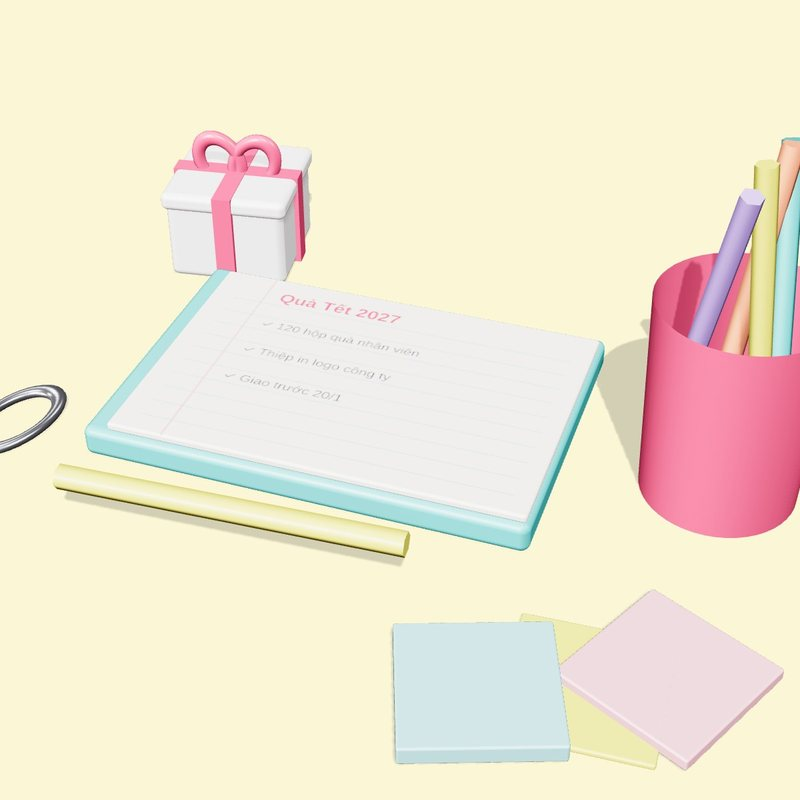
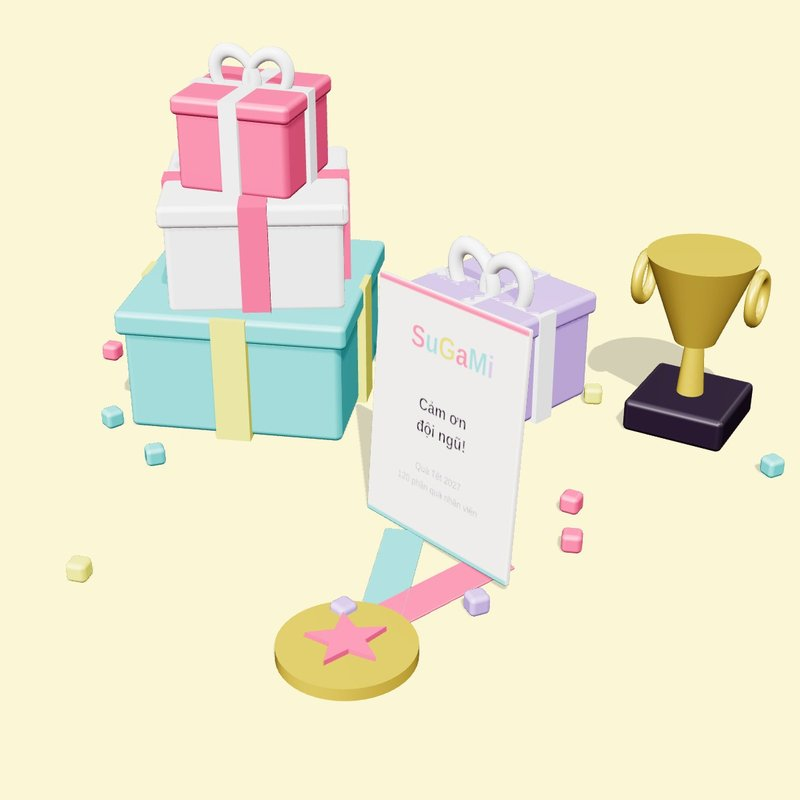
[SITE] Brand as SuGaMi, new company-gift render, serve homepage via nginx
- Visible brand text uses SuGaMi; toy-block render spells SuGaMi.
- Hero 'Quà công ty' image re-rendered as branded gift stack with a
  thank-you card, medal and trophy (company and school gifts).
- New 'homepage' compose service (nginx, 127.0.0.1:8080) serving
  sites/sugami.vn read-only; concepts/ and tools/ return 404.
- docs/ops/trang-chu.md: Cloudflare Tunnel steps for sugami.vn and www.
docker compose config validates; container not run here (no Docker daemon).

Claude-Session: https://claude.ai/code/session_01DkVifqYXS8RcKoUXCQ7pA5

diff --git a/sites/sugami.vn/index.html b/sites/sugami.vn/index.html
@@ -3,8 +3,8 @@
 <head>
 <meta charset="utf-8">
 <meta name="viewport" content="width=device-width, initial-scale=1">
-<title>Sugami | Đồ chơi và quà tặng</title>
-<meta name="description" content="Công ty TNHH Thương mại và Dịch vụ Sugami: bán sỉ, bán lẻ đồ chơi trẻ em, quà tặng cho công ty và phần thưởng cho trường học.">
+<title>SuGaMi | Đồ chơi và quà tặng</title>
+<meta name="description" content="Công ty TNHH Thương mại và Dịch vụ SuGaMi: bán sỉ, bán lẻ đồ chơi trẻ em, quà tặng cho công ty và phần thưởng cho trường học.">
 <link rel="icon" type="image/png" href="assets/favicon.png">
 <link rel="preconnect" href="https://fonts.googleapis.com">
 <link rel="preconnect" href="https://fonts.gstatic.com" crossorigin>
@@ -247,9 +247,9 @@
 </head>
 <body>
 <header>
-  <a class="brand glass" href="#"><img src="assets/logo.png" alt="Sugami">Sugami</a>
+  <a class="brand glass" href="#"><img src="assets/logo.png" alt="SuGaMi">SuGaMi</a>
   <nav class="stations glass" id="stations">
-    <a href="#" data-i="0">Sugami</a><a href="#" data-i="1">Chọn</a><a href="#" data-i="2">Gói</a><a href="#" data-i="3">Giao</a><a href="#" data-i="4">Lớn lên</a><a href="#tat-ca" id="toAll">Tất cả</a>
+    <a href="#" data-i="0">SuGaMi</a><a href="#" data-i="1">Chọn</a><a href="#" data-i="2">Gói</a><a href="#" data-i="3">Giao</a><a href="#" data-i="4">Lớn lên</a><a href="#tat-ca" id="toAll">Tất cả</a>
   </nav>
 </header>
 
@@ -266,16 +266,16 @@
 
       <article class="panel">
         <div>
-          <div class="num">Công ty TNHH Thương mại và Dịch vụ Sugami</div>
+          <div class="num">Công ty TNHH Thương mại và Dịch vụ SuGaMi</div>
           <h2>Hành trình của <span class="grad">một món quà.</span></h2>
-          <p>Từ lúc chọn một món đồ chơi, gói một phần quà, đến khi nó đến tay bé, tay nhân viên hay tay học sinh của bạn. Đó là việc Sugami làm mỗi ngày.</p>
+          <p>Từ lúc chọn một món đồ chơi, gói một phần quà, đến khi nó đến tay bé, tay nhân viên hay tay học sinh của bạn. Đó là việc SuGaMi làm mỗi ngày.</p>
           <div class="hint">Cứ cuộn xuống như bình thường, trang sẽ tự trượt ngang <svg viewBox="0 0 24 24" fill="none" stroke="currentColor" stroke-width="2.2" stroke-linecap="round" stroke-linejoin="round"><path d="M12 5v14M6 13l6 6 6-6"/></svg></div>
         </div>
         <div class="collage" id="collage" aria-hidden="true">
           <figure class="shot glass s2"><img src="assets/img/do-choi.jpg" alt=""><figcaption>Đồ chơi</figcaption></figure>
           <figure class="shot glass s3"><img src="assets/img/van-phong.jpg" alt=""><figcaption>Quà công ty</figcaption></figure>
           <figure class="shot glass s1"><img src="assets/img/qua-tang.jpg" alt=""><figcaption>Quà tặng</figcaption></figure>
-          <div class="badge glass"><img src="assets/logo.png" alt="">Sugami<small>Thương mại &amp; Dịch vụ</small></div>
+          <div class="badge glass"><img src="assets/logo.png" alt="">SuGaMi<small>Thương mại &amp; Dịch vụ</small></div>
         </div>
       </article>
 
@@ -283,7 +283,7 @@
         <div>
           <div class="num">Chặng 1 · Chọn</div>
           <h2>Chọn <span class="grad">đúng món.</span></h2>
-          <p>Sugami bán sỉ và bán lẻ đồ chơi trẻ em, chọn lọc theo độ tuổi, chất liệu và giá trị giáo dục. Ba mẹ khỏi phải lục tìm giữa hàng nghìn lựa chọn.</p>
+          <p>SuGaMi bán sỉ và bán lẻ đồ chơi trẻ em, chọn lọc theo độ tuổi, chất liệu và giá trị giáo dục. Ba mẹ khỏi phải lục tìm giữa hàng nghìn lựa chọn.</p>
         </div>
         <div class="prods">
           <a class="pc glass" href="https://shopee.vn/-C%C3%B3-S%C3%A1ch-Ti%E1%BA%BFng-Vi%E1%BB%87t-%C4%90%E1%BB%93-ch%C6%A1i-gi%C3%A1o-d%E1%BB%A5c-x%E1%BA%BFp-h%C3%ACnh-tetris-Katamino-phi%C3%AAn-b%E1%BA%A3n-gia-%C4%91%C3%ACnh-Family-i.6875667.22114388468" target="_blank" rel="noopener"><div class="ph"><img src="assets/img/sp/katamino.jpg" alt="Katamino xếp hình gỗ" loading="lazy"></div><b>Katamino xếp hình gỗ</b><small>Bé 3+ · Trí tuệ</small></a>
@@ -299,7 +299,7 @@
         <div>
           <div class="num">Chặng 2 · Gói</div>
           <h2>Gói <span class="grad">trọn tấm lòng.</span></h2>
-          <p>Quà cho con, cho gia đình, quà cho cả công ty và phần thưởng cho trường học. Sugami lên phương án theo ngân sách, gói quà, in thiệp theo thương hiệu và giao tận nơi.</p>
+          <p>Quà cho con, cho gia đình, quà cho cả công ty và phần thưởng cho trường học. SuGaMi lên phương án theo ngân sách, gói quà, in thiệp theo thương hiệu và giao tận nơi.</p>
         </div>
         <div class="wrapbox glass">
           <div class="num" style="color:var(--teal-deep)">Sứ mệnh</div>
@@ -315,7 +315,7 @@
         <div>
           <div class="num">Chặng 3 · Giao</div>
           <h2>Đến tay bạn, <span class="grad">ở kênh bạn quen.</span></h2>
-          <p>Một kho hàng, nhiều kênh bán. Đơn ở đâu cũng được Sugami xử lý trong ngày và giao toàn quốc. Zalo: <b>0981 151 720</b>.</p>
+          <p>Một kho hàng, nhiều kênh bán. Đơn ở đâu cũng được SuGaMi xử lý trong ngày và giao toàn quốc. Zalo: <b>0981 151 720</b>.</p>
         </div>
         <div class="chans">
           <a class="ch glass" href="https://s.shopee.vn/4fy5kstgpM" target="_blank" rel="noopener"><span class="shopee"><svg viewBox="0 0 24 24" fill="none" stroke="currentColor" stroke-width="2" stroke-linecap="round" stroke-linejoin="round"><path d="M5 8h14l-1 12H6L5 8z"/><path d="M9 8a3 3 0 016 0"/></svg></span><b>Shopee</b><small>Gian hàng chính thức, voucher thường xuyên</small></a>
@@ -329,11 +329,11 @@
         <div>
           <div class="num">Chặng 4 · Lớn lên</div>
           <h2>Và <span class="grad">lớn lên</span> cùng bé.</h2>
-          <p>Món quà không dừng ở hộp giấy. Ở learn.sugami.vn, các bé tiếp tục vừa chơi vừa học kiến thức và kỹ năng sống cùng Sugami.</p>
-          <div class="down">Cuộn tiếp để xem tất cả về Sugami <svg viewBox="0 0 24 24" fill="none" stroke="currentColor" stroke-width="2.2" stroke-linecap="round" stroke-linejoin="round"><path d="M12 5v14M6 13l6 6 6-6"/></svg></div>
+          <p>Món quà không dừng ở hộp giấy. Ở learn.sugami.vn, các bé tiếp tục vừa chơi vừa học kiến thức và kỹ năng sống cùng SuGaMi.</p>
+          <div class="down">Cuộn tiếp để xem tất cả về SuGaMi <svg viewBox="0 0 24 24" fill="none" stroke="currentColor" stroke-width="2.2" stroke-linecap="round" stroke-linejoin="round"><path d="M12 5v14M6 13l6 6 6-6"/></svg></div>
         </div>
         <div class="learn"><img class="learn-img" src="assets/img/learn.jpg" alt="Mèo Mochi học cùng máy tính Casio trên learn.sugami.vn">
-          <small>Sugami Learn</small>
+          <small>SuGaMi Learn</small>
           <b>learn.sugami.vn</b>
           <p>Mèo Mochi dẫn bé qua từng bài: tập đọc, gõ phím, máy tính Casio, hóa học, lập trình. Học xong có luyện tập, thi đấu và bảng xếp hạng.</p>
           <a href="https://learn.sugami.vn" target="_blank" rel="noopener">Cho bé khám phá</a>
@@ -349,50 +349,50 @@
   <main class="bento" id="bento">
     <section class="intro-tile glass">
       <div class="kick">Điểm đến của hành trình</div>
-      <div class="hero-txt"><h2>Tất cả về Sugami, <span class="grad">trong một lưới.</span></h2><p>Bấm một ô để ô bung ra thành trang đầy đủ, bấm dấu đóng để quay lại.</p></div>
-      <div class="meta">Công ty TNHH Thương mại và Dịch vụ Sugami<br>Đồ chơi trẻ em · Quà tặng · Quà công ty &amp; trường học</div>
+      <div class="hero-txt"><h2>Tất cả về SuGaMi, <span class="grad">trong một lưới.</span></h2><p>Bấm một ô để ô bung ra thành trang đầy đủ, bấm dấu đóng để quay lại.</p></div>
+      <div class="meta">Công ty TNHH Thương mại và Dịch vụ SuGaMi<br>Đồ chơi trẻ em · Quà tặng · Quà công ty &amp; trường học</div>
       <img class="logo2" src="assets/logo.png" alt="">
     </section>
 <article class="tile glass t-about" data-k="about" style="view-transition-name:t-about;--c:var(--rose);background:rgba(253,227,233,.75);">
   <button class="open" aria-label="Mở Chúng tôi là ai"></button>
   <div class="th"><span class="ic"><svg viewBox="0 0 24 24" fill="none" stroke="currentColor" stroke-width="2" stroke-linecap="round" stroke-linejoin="round"><path d="M12 21s-7-4.4-7-10a4 4 0 017-2.6A4 4 0 0119 11c0 5.6-7 10-7 10z"/></svg></span><span class="nm">Chúng tôi là ai</span><span class="plus"><svg viewBox="0 0 24 24" fill="none" stroke="currentColor" stroke-width="2" stroke-linecap="round" stroke-linejoin="round"><path d="M5 12h14M13 6l6 6-6 6"/></svg></span></div>
   <div class="peek"><h3>Một đầu mối cho đồ chơi và quà tặng.</h3></div>
-  <div class="full" hidden><button class="close" aria-label="Đóng"><svg viewBox="0 0 24 24" fill="none" stroke="currentColor" stroke-width="2" stroke-linecap="round" stroke-linejoin="round"><path d="M6 6l12 12M18 6L6 18"/></svg></button><div class="fx"><div><h2>Một đầu mối cho đồ chơi và quà tặng.</h2><p>Sugami là Công ty TNHH Thương mại và Dịch vụ chuyên bán sỉ, bán lẻ đồ chơi trẻ em và lo quà tặng cho gia đình, công ty, trường học. Kho hàng và đơn hàng chạy trên hệ thống riêng, nên mỗi đơn đều nhanh, đúng và minh bạch.</p></div>
-  <div class="svc"><div><b>Đồ chơi trẻ em</b><small>Bán sỉ cho cửa hàng, bán lẻ cho gia đình</small></div><div><b>Quà tặng</b><small>Cho con, gia đình và nhân viên</small></div><div><b>Công ty &amp; trường học</b><small>Quà cho nhân viên, phần thưởng cuối năm, sự kiện</small></div></div></div><div class="next"><span>Xem tiếp</span><button class="jump" data-go="mission">Sứ mệnh</button><button class="jump" data-go="products">Sản phẩm nổi bật</button><button class="jump" data-go="channels">Mua sắm</button><button class="jump" data-go="b2b">Quà công ty &amp; trường</button><button class="jump" data-go="learn">Sugami Learn</button></div></div>
+  <div class="full" hidden><button class="close" aria-label="Đóng"><svg viewBox="0 0 24 24" fill="none" stroke="currentColor" stroke-width="2" stroke-linecap="round" stroke-linejoin="round"><path d="M6 6l12 12M18 6L6 18"/></svg></button><div class="fx"><div><h2>Một đầu mối cho đồ chơi và quà tặng.</h2><p>SuGaMi là Công ty TNHH Thương mại và Dịch vụ chuyên bán sỉ, bán lẻ đồ chơi trẻ em và lo quà tặng cho gia đình, công ty, trường học. Kho hàng và đơn hàng chạy trên hệ thống riêng, nên mỗi đơn đều nhanh, đúng và minh bạch.</p></div>
+  <div class="svc"><div><b>Đồ chơi trẻ em</b><small>Bán sỉ cho cửa hàng, bán lẻ cho gia đình</small></div><div><b>Quà tặng</b><small>Cho con, gia đình và nhân viên</small></div><div><b>Công ty &amp; trường học</b><small>Quà cho nhân viên, phần thưởng cuối năm, sự kiện</small></div></div></div><div class="next"><span>Xem tiếp</span><button class="jump" data-go="mission">Sứ mệnh</button><button class="jump" data-go="products">Sản phẩm nổi bật</button><button class="jump" data-go="channels">Mua sắm</button><button class="jump" data-go="b2b">Quà công ty &amp; trường</button><button class="jump" data-go="learn">SuGaMi Learn</button></div></div>
 </article>
 <article class="tile glass t-mission" data-k="mission" style="view-transition-name:t-mission;--c:var(--teal);background:rgba(220,243,244,.78);">
   <button class="open" aria-label="Mở Sứ mệnh"></button>
   <div class="th"><span class="ic"><svg viewBox="0 0 24 24" fill="none" stroke="currentColor" stroke-width="2" stroke-linecap="round" stroke-linejoin="round"><circle cx="12" cy="12" r="8"/><circle cx="12" cy="12" r="4"/></svg></span><span class="nm">Sứ mệnh</span><span class="plus"><svg viewBox="0 0 24 24" fill="none" stroke="currentColor" stroke-width="2" stroke-linecap="round" stroke-linejoin="round"><path d="M5 12h14M13 6l6 6-6 6"/></svg></span></div>
   <div class="peek"><p class="q">“Giúp ba mẹ khỏi vất vả tìm quà cho con, giúp công ty, trường học nhẹ nhàng lo quà cho nhân viên, học sinh.”</p></div>
-  <div class="full" hidden><button class="close" aria-label="Đóng"><svg viewBox="0 0 24 24" fill="none" stroke="currentColor" stroke-width="2" stroke-linecap="round" stroke-linejoin="round"><path d="M6 6l12 12M18 6L6 18"/></svg></button><blockquote>Giúp ba mẹ khỏi vất vả tìm đồ chơi và quà cho con. Giúp doanh nghiệp nhẹ nhàng chuẩn bị quà cho nhân viên, giúp nhà trường lo phần thưởng cuối năm.</blockquote><p>Phần chọn lựa, gói quà và giao hàng, để Sugami lo. Từ một món đồ chơi cho bé đến vài trăm phần quà cho cả công ty hay cả trường.</p><div class="next"><span>Xem tiếp</span><button class="jump" data-go="about">Chúng tôi là ai</button><button class="jump" data-go="products">Sản phẩm nổi bật</button><button class="jump" data-go="channels">Mua sắm</button><button class="jump" data-go="b2b">Quà công ty &amp; trường</button><button class="jump" data-go="learn">Sugami Learn</button></div></div>
+  <div class="full" hidden><button class="close" aria-label="Đóng"><svg viewBox="0 0 24 24" fill="none" stroke="currentColor" stroke-width="2" stroke-linecap="round" stroke-linejoin="round"><path d="M6 6l12 12M18 6L6 18"/></svg></button><blockquote>Giúp ba mẹ khỏi vất vả tìm đồ chơi và quà cho con. Giúp doanh nghiệp nhẹ nhàng chuẩn bị quà cho nhân viên, giúp nhà trường lo phần thưởng cuối năm.</blockquote><p>Phần chọn lựa, gói quà và giao hàng, để SuGaMi lo. Từ một món đồ chơi cho bé đến vài trăm phần quà cho cả công ty hay cả trường.</p><div class="next"><span>Xem tiếp</span><button class="jump" data-go="about">Chúng tôi là ai</button><button class="jump" data-go="products">Sản phẩm nổi bật</button><button class="jump" data-go="channels">Mua sắm</button><button class="jump" data-go="b2b">Quà công ty &amp; trường</button><button class="jump" data-go="learn">SuGaMi Learn</button></div></div>
 </article>
 <article class="tile glass t-products" data-k="products" style="view-transition-name:t-products;--c:#d8c62c;background:rgba(251,247,208,.8);">
   <button class="open" aria-label="Mở Sản phẩm nổi bật"></button>
   <div class="th"><span class="ic"><svg viewBox="0 0 24 24" fill="none" stroke="currentColor" stroke-width="2" stroke-linecap="round" stroke-linejoin="round"><path d="M4 11h16v9H4zM3 7h18v4H3zM12 7v13"/><path d="M12 7c-1.5-3-5-3-5-1s3 1 5 1zM12 7c1.5-3 5-3 5-1s-3 1-5 1z"/></svg></span><span class="nm">Sản phẩm nổi bật</span><span class="plus"><svg viewBox="0 0 24 24" fill="none" stroke="currentColor" stroke-width="2" stroke-linecap="round" stroke-linejoin="round"><path d="M5 12h14M13 6l6 6-6 6"/></svg></span></div>
   <div class="peek"><div class="mini"><a class="pc" href="https://shopee.vn/-C%C3%B3-S%C3%A1ch-Ti%E1%BA%BFng-Vi%E1%BB%87t-%C4%90%E1%BB%93-ch%C6%A1i-gi%C3%A1o-d%E1%BB%A5c-x%E1%BA%BFp-h%C3%ACnh-tetris-Katamino-phi%C3%AAn-b%E1%BA%A3n-gia-%C4%91%C3%ACnh-Family-i.6875667.22114388468" target="_blank" rel="noopener"><div class="ph"><img src="assets/img/sp/katamino.jpg" alt="Katamino xếp hình gỗ" loading="lazy"></div><b>Katamino xếp hình gỗ</b><small>Bé 3+ · Trí tuệ</small></a><a class="pc" href="https://shopee.vn/-M%E1%BA%AAU-M%E1%BB%9AI-%C4%90%E1%BB%93-ch%C6%A1i-xe-%C4%91%E1%BA%A9y-b%C3%BAp-b%C3%AA-SuGaMi-m%C3%A0u-h%E1%BB%93ng-k%C3%A8m-nhi%E1%BB%81u-ph%E1%BB%A5-ki%E1%BB%87n-size-l%E1%BB%9Bn-cho-b%C3%A9-i.6875667.22540928422" target="_blank" rel="noopener"><div class="ph"><img src="assets/img/sp/xe-day.jpg" alt="Xe đẩy búp bê kèm phụ kiện" loading="lazy"></div><b>Xe đẩy búp bê kèm phụ kiện</b><small>Bé 3+ · Nhập vai</small></a><a class="pc" href="https://shopee.vn/%C4%90%E1%BB%93-ch%C6%A1i-b%E1%BA%AFn-t%C3%A0u-The-Sea-Battle-kinh-%C4%91i%E1%BB%83n-SuGaMi-boardgame-i.6875667.11352909979" target="_blank" rel="noopener"><div class="ph"><img src="assets/img/sp/ban-tau.jpg" alt="Bắn tàu The Sea Battle" loading="lazy"></div><b>Bắn tàu The Sea Battle</b><small>Bé 6+ · Boardgame</small></a></div></div>
-  <div class="full" hidden><button class="close" aria-label="Đóng"><svg viewBox="0 0 24 24" fill="none" stroke="currentColor" stroke-width="2" stroke-linecap="round" stroke-linejoin="round"><path d="M6 6l12 12M18 6L6 18"/></svg></button><h2>Được chọn sẵn theo từng độ tuổi.</h2><div class="prods"><a class="pc glass" href="https://shopee.vn/-C%C3%B3-S%C3%A1ch-Ti%E1%BA%BFng-Vi%E1%BB%87t-%C4%90%E1%BB%93-ch%C6%A1i-gi%C3%A1o-d%E1%BB%A5c-x%E1%BA%BFp-h%C3%ACnh-tetris-Katamino-phi%C3%AAn-b%E1%BA%A3n-gia-%C4%91%C3%ACnh-Family-i.6875667.22114388468" target="_blank" rel="noopener"><div class="ph"><img src="assets/img/sp/katamino.jpg" alt="Katamino xếp hình gỗ" loading="lazy"></div><b>Katamino xếp hình gỗ</b><small>Bé 3+ · Trí tuệ</small></a><a class="pc glass" href="https://shopee.vn/-M%E1%BA%AAU-M%E1%BB%9AI-%C4%90%E1%BB%93-ch%C6%A1i-xe-%C4%91%E1%BA%A9y-b%C3%BAp-b%C3%AA-SuGaMi-m%C3%A0u-h%E1%BB%93ng-k%C3%A8m-nhi%E1%BB%81u-ph%E1%BB%A5-ki%E1%BB%87n-size-l%E1%BB%9Bn-cho-b%C3%A9-i.6875667.22540928422" target="_blank" rel="noopener"><div class="ph"><img src="assets/img/sp/xe-day.jpg" alt="Xe đẩy búp bê kèm phụ kiện" loading="lazy"></div><b>Xe đẩy búp bê kèm phụ kiện</b><small>Bé 3+ · Nhập vai</small></a><a class="pc glass" href="https://shopee.vn/%C4%90%E1%BB%93-ch%C6%A1i-b%E1%BA%AFn-t%C3%A0u-The-Sea-Battle-kinh-%C4%91i%E1%BB%83n-SuGaMi-boardgame-i.6875667.11352909979" target="_blank" rel="noopener"><div class="ph"><img src="assets/img/sp/ban-tau.jpg" alt="Bắn tàu The Sea Battle" loading="lazy"></div><b>Bắn tàu The Sea Battle</b><small>Bé 6+ · Boardgame</small></a><a class="pc glass" href="https://shopee.vn/C%E1%BB%9D-th%E1%BA%A3-Caro-Connect-Four-SuGaMi-b%E1%BA%B1ng-nh%E1%BB%B1a-t%E1%BB%91t-phi%C3%AAn-b%E1%BA%A3n-m%E1%BB%9Bi-42-qu%C3%A2n-c%E1%BB%9D-i.6875667.21569038686" target="_blank" rel="noopener"><div class="ph"><img src="assets/img/sp/connect-four.jpg" alt="Cờ thả Connect Four" loading="lazy"></div><b>Cờ thả Connect Four</b><small>Bé 3+ · Boardgame</small></a><a class="pc glass" href="https://shopee.vn/Set-b%C3%BAt-m%C3%A0u-marker-2-%C4%91%E1%BA%A7u-SuGaMi-c%C3%B3-h%E1%BB%99p-nh%C6%B0a-v%E1%BB%9Bi-nhi%E1%BB%81u-l%E1%BB%B1a-ch%E1%BB%8Dn-i.6875667.19392834589" target="_blank" rel="noopener"><div class="ph"><img src="assets/img/sp/but-marker.jpg" alt="Bút marker 2 đầu" loading="lazy"></div><b>Bút marker 2 đầu</b><small>Bé 4+ · Vẽ & tô màu</small></a><a class="pc glass" href="https://shopee.vn/B%C3%ACnh-N%C6%B0%E1%BB%9Bc-Eco-Bottle-Gen-II-500ml-Tupperware-B%C3%ACnh-n%C6%B0%E1%BB%9Bc-cho-tr%E1%BA%BB-mang-%C4%91i-h%E1%BB%8Dc-i.6875667.25921513505" target="_blank" rel="noopener"><div class="ph"><img src="assets/img/sp/binh-nuoc.jpg" alt="Bình nước Tupperware 500ml" loading="lazy"></div><b>Bình nước Tupperware 500ml</b><small>Đi học · Quà tặng</small></a></div><div class="next"><span>Xem tiếp</span><button class="jump" data-go="about">Chúng tôi là ai</button><button class="jump" data-go="mission">Sứ mệnh</button><button class="jump" data-go="channels">Mua sắm</button><button class="jump" data-go="b2b">Quà công ty &amp; trường</button><button class="jump" data-go="learn">Sugami Learn</button></div></div>
+  <div class="full" hidden><button class="close" aria-label="Đóng"><svg viewBox="0 0 24 24" fill="none" stroke="currentColor" stroke-width="2" stroke-linecap="round" stroke-linejoin="round"><path d="M6 6l12 12M18 6L6 18"/></svg></button><h2>Được chọn sẵn theo từng độ tuổi.</h2><div class="prods"><a class="pc glass" href="https://shopee.vn/-C%C3%B3-S%C3%A1ch-Ti%E1%BA%BFng-Vi%E1%BB%87t-%C4%90%E1%BB%93-ch%C6%A1i-gi%C3%A1o-d%E1%BB%A5c-x%E1%BA%BFp-h%C3%ACnh-tetris-Katamino-phi%C3%AAn-b%E1%BA%A3n-gia-%C4%91%C3%ACnh-Family-i.6875667.22114388468" target="_blank" rel="noopener"><div class="ph"><img src="assets/img/sp/katamino.jpg" alt="Katamino xếp hình gỗ" loading="lazy"></div><b>Katamino xếp hình gỗ</b><small>Bé 3+ · Trí tuệ</small></a><a class="pc glass" href="https://shopee.vn/-M%E1%BA%AAU-M%E1%BB%9AI-%C4%90%E1%BB%93-ch%C6%A1i-xe-%C4%91%E1%BA%A9y-b%C3%BAp-b%C3%AA-SuGaMi-m%C3%A0u-h%E1%BB%93ng-k%C3%A8m-nhi%E1%BB%81u-ph%E1%BB%A5-ki%E1%BB%87n-size-l%E1%BB%9Bn-cho-b%C3%A9-i.6875667.22540928422" target="_blank" rel="noopener"><div class="ph"><img src="assets/img/sp/xe-day.jpg" alt="Xe đẩy búp bê kèm phụ kiện" loading="lazy"></div><b>Xe đẩy búp bê kèm phụ kiện</b><small>Bé 3+ · Nhập vai</small></a><a class="pc glass" href="https://shopee.vn/%C4%90%E1%BB%93-ch%C6%A1i-b%E1%BA%AFn-t%C3%A0u-The-Sea-Battle-kinh-%C4%91i%E1%BB%83n-SuGaMi-boardgame-i.6875667.11352909979" target="_blank" rel="noopener"><div class="ph"><img src="assets/img/sp/ban-tau.jpg" alt="Bắn tàu The Sea Battle" loading="lazy"></div><b>Bắn tàu The Sea Battle</b><small>Bé 6+ · Boardgame</small></a><a class="pc glass" href="https://shopee.vn/C%E1%BB%9D-th%E1%BA%A3-Caro-Connect-Four-SuGaMi-b%E1%BA%B1ng-nh%E1%BB%B1a-t%E1%BB%91t-phi%C3%AAn-b%E1%BA%A3n-m%E1%BB%9Bi-42-qu%C3%A2n-c%E1%BB%9D-i.6875667.21569038686" target="_blank" rel="noopener"><div class="ph"><img src="assets/img/sp/connect-four.jpg" alt="Cờ thả Connect Four" loading="lazy"></div><b>Cờ thả Connect Four</b><small>Bé 3+ · Boardgame</small></a><a class="pc glass" href="https://shopee.vn/Set-b%C3%BAt-m%C3%A0u-marker-2-%C4%91%E1%BA%A7u-SuGaMi-c%C3%B3-h%E1%BB%99p-nh%C6%B0a-v%E1%BB%9Bi-nhi%E1%BB%81u-l%E1%BB%B1a-ch%E1%BB%8Dn-i.6875667.19392834589" target="_blank" rel="noopener"><div class="ph"><img src="assets/img/sp/but-marker.jpg" alt="Bút marker 2 đầu" loading="lazy"></div><b>Bút marker 2 đầu</b><small>Bé 4+ · Vẽ & tô màu</small></a><a class="pc glass" href="https://shopee.vn/B%C3%ACnh-N%C6%B0%E1%BB%9Bc-Eco-Bottle-Gen-II-500ml-Tupperware-B%C3%ACnh-n%C6%B0%E1%BB%9Bc-cho-tr%E1%BA%BB-mang-%C4%91i-h%E1%BB%8Dc-i.6875667.25921513505" target="_blank" rel="noopener"><div class="ph"><img src="assets/img/sp/binh-nuoc.jpg" alt="Bình nước Tupperware 500ml" loading="lazy"></div><b>Bình nước Tupperware 500ml</b><small>Đi học · Quà tặng</small></a></div><div class="next"><span>Xem tiếp</span><button class="jump" data-go="about">Chúng tôi là ai</button><button class="jump" data-go="mission">Sứ mệnh</button><button class="jump" data-go="channels">Mua sắm</button><button class="jump" data-go="b2b">Quà công ty &amp; trường</button><button class="jump" data-go="learn">SuGaMi Learn</button></div></div>
 </article>
 <article class="tile glass t-channels" data-k="channels" style="view-transition-name:t-channels;--c:var(--lav);background:rgba(236,229,251,.8);">
   <button class="open" aria-label="Mở Mua sắm"></button>
   <div class="th"><span class="ic"><svg viewBox="0 0 24 24" fill="none" stroke="currentColor" stroke-width="2" stroke-linecap="round" stroke-linejoin="round"><path d="M5 8h14l-1 12H6L5 8z"/><path d="M9 8a3 3 0 016 0"/></svg></span><span class="nm">Mua sắm</span><span class="plus"><svg viewBox="0 0 24 24" fill="none" stroke="currentColor" stroke-width="2" stroke-linecap="round" stroke-linejoin="round"><path d="M5 12h14M13 6l6 6-6 6"/></svg></span></div>
   <div class="peek"><div class="dots"><span class="shopee"><svg viewBox="0 0 24 24" fill="none" stroke="currentColor" stroke-width="2" stroke-linecap="round" stroke-linejoin="round"><path d="M5 8h14l-1 12H6L5 8z"/><path d="M9 8a3 3 0 016 0"/></svg></span><span class="tiktok"><svg viewBox="0 0 24 24" fill="none" stroke="currentColor" stroke-width="2" stroke-linecap="round" stroke-linejoin="round"><path d="M14 4v10.5a3.5 3.5 0 11-3.5-3.5"/><path d="M14 4c.5 2.5 2.3 4 5 4.2"/></svg></span><span class="facebook"><svg viewBox="0 0 24 24" fill="currentColor"><path d="M13.5 21v-7.5h2.6l.4-3h-3V8.6c0-.9.3-1.5 1.5-1.5h1.6V4.4c-.3 0-1.2-.1-2.3-.1-2.3 0-3.8 1.4-3.8 3.9v2.3H8v3h2.5V21h3z"/></svg></span><span class="zalo"><svg viewBox="0 0 24 24" fill="none" stroke="currentColor" stroke-width="2" stroke-linecap="round" stroke-linejoin="round"><path d="M12 4c4.97 0 9 3.36 9 7.5S16.97 19 12 19c-.9 0-1.8-.1-2.6-.3L5 20.5l1.2-3.4C4.2 15.8 3 13.8 3 11.5 3 7.36 7.03 4 12 4z"/></svg></span></div><h3>Shopee, TikTok Shop, Facebook, Zalo.</h3></div>
-  <div class="full" hidden><button class="close" aria-label="Đóng"><svg viewBox="0 0 24 24" fill="none" stroke="currentColor" stroke-width="2" stroke-linecap="round" stroke-linejoin="round"><path d="M6 6l12 12M18 6L6 18"/></svg></button><h2>Nơi nào bạn quen, Sugami ở đó.</h2><div class="chg"><a class="glass" href="https://s.shopee.vn/4fy5kstgpM" target="_blank" rel="noopener"><span class="shopee"><svg viewBox="0 0 24 24" fill="none" stroke="currentColor" stroke-width="2" stroke-linecap="round" stroke-linejoin="round"><path d="M5 8h14l-1 12H6L5 8z"/><path d="M9 8a3 3 0 016 0"/></svg></span><span style="all:unset">Shopee<small>Gian hàng chính thức</small></span></a><a class="glass" href="https://www.tiktok.com/@sugami.vn" target="_blank" rel="noopener"><span class="tiktok"><svg viewBox="0 0 24 24" fill="none" stroke="currentColor" stroke-width="2" stroke-linecap="round" stroke-linejoin="round"><path d="M14 4v10.5a3.5 3.5 0 11-3.5-3.5"/><path d="M14 4c.5 2.5 2.3 4 5 4.2"/></svg></span><span style="all:unset">TikTok Shop<small>Video, livestream</small></span></a><a class="glass" href="https://www.facebook.com/share/19jK4DMbDJ" target="_blank" rel="noopener"><span class="facebook"><svg viewBox="0 0 24 24" fill="currentColor"><path d="M13.5 21v-7.5h2.6l.4-3h-3V8.6c0-.9.3-1.5 1.5-1.5h1.6V4.4c-.3 0-1.2-.1-2.3-.1-2.3 0-3.8 1.4-3.8 3.9v2.3H8v3h2.5V21h3z"/></svg></span><span style="all:unset">Facebook<small>Hàng mới, tư vấn</small></span></a><a class="glass" href="https://zalo.me/0981151720" target="_blank" rel="noopener"><span class="zalo"><svg viewBox="0 0 24 24" fill="none" stroke="currentColor" stroke-width="2" stroke-linecap="round" stroke-linejoin="round"><path d="M12 4c4.97 0 9 3.36 9 7.5S16.97 19 12 19c-.9 0-1.8-.1-2.6-.3L5 20.5l1.2-3.4C4.2 15.8 3 13.8 3 11.5 3 7.36 7.03 4 12 4z"/></svg></span><span style="all:unset">Zalo<small>Zalo 0981 151 720</small></span></a></div><div class="next"><span>Xem tiếp</span><button class="jump" data-go="about">Chúng tôi là ai</button><button class="jump" data-go="mission">Sứ mệnh</button><button class="jump" data-go="products">Sản phẩm nổi bật</button><button class="jump" data-go="b2b">Quà công ty &amp; trường</button><button class="jump" data-go="learn">Sugami Learn</button></div></div>
+  <div class="full" hidden><button class="close" aria-label="Đóng"><svg viewBox="0 0 24 24" fill="none" stroke="currentColor" stroke-width="2" stroke-linecap="round" stroke-linejoin="round"><path d="M6 6l12 12M18 6L6 18"/></svg></button><h2>Nơi nào bạn quen, SuGaMi ở đó.</h2><div class="chg"><a class="glass" href="https://s.shopee.vn/4fy5kstgpM" target="_blank" rel="noopener"><span class="shopee"><svg viewBox="0 0 24 24" fill="none" stroke="currentColor" stroke-width="2" stroke-linecap="round" stroke-linejoin="round"><path d="M5 8h14l-1 12H6L5 8z"/><path d="M9 8a3 3 0 016 0"/></svg></span><span style="all:unset">Shopee<small>Gian hàng chính thức</small></span></a><a class="glass" href="https://www.tiktok.com/@sugami.vn" target="_blank" rel="noopener"><span class="tiktok"><svg viewBox="0 0 24 24" fill="none" stroke="currentColor" stroke-width="2" stroke-linecap="round" stroke-linejoin="round"><path d="M14 4v10.5a3.5 3.5 0 11-3.5-3.5"/><path d="M14 4c.5 2.5 2.3 4 5 4.2"/></svg></span><span style="all:unset">TikTok Shop<small>Video, livestream</small></span></a><a class="glass" href="https://www.facebook.com/share/19jK4DMbDJ" target="_blank" rel="noopener"><span class="facebook"><svg viewBox="0 0 24 24" fill="currentColor"><path d="M13.5 21v-7.5h2.6l.4-3h-3V8.6c0-.9.3-1.5 1.5-1.5h1.6V4.4c-.3 0-1.2-.1-2.3-.1-2.3 0-3.8 1.4-3.8 3.9v2.3H8v3h2.5V21h3z"/></svg></span><span style="all:unset">Facebook<small>Hàng mới, tư vấn</small></span></a><a class="glass" href="https://zalo.me/0981151720" target="_blank" rel="noopener"><span class="zalo"><svg viewBox="0 0 24 24" fill="none" stroke="currentColor" stroke-width="2" stroke-linecap="round" stroke-linejoin="round"><path d="M12 4c4.97 0 9 3.36 9 7.5S16.97 19 12 19c-.9 0-1.8-.1-2.6-.3L5 20.5l1.2-3.4C4.2 15.8 3 13.8 3 11.5 3 7.36 7.03 4 12 4z"/></svg></span><span style="all:unset">Zalo<small>Zalo 0981 151 720</small></span></a></div><div class="next"><span>Xem tiếp</span><button class="jump" data-go="about">Chúng tôi là ai</button><button class="jump" data-go="mission">Sứ mệnh</button><button class="jump" data-go="products">Sản phẩm nổi bật</button><button class="jump" data-go="b2b">Quà công ty &amp; trường</button><button class="jump" data-go="learn">SuGaMi Learn</button></div></div>
 </article>
 <article class="tile glass t-b2b" data-k="b2b" style="view-transition-name:t-b2b;--c:var(--coral);background:rgba(253,232,220,.8);">
   <button class="open" aria-label="Mở Quà công ty và trường học"></button>
   <div class="th"><span class="ic"><svg viewBox="0 0 24 24" fill="none" stroke="currentColor" stroke-width="2" stroke-linecap="round" stroke-linejoin="round"><path d="M4 20l4-1L19 8a2.1 2.1 0 00-3-3L5 16l-1 4z"/></svg></span><span class="nm">Công ty &amp; trường học</span><span class="plus"><svg viewBox="0 0 24 24" fill="none" stroke="currentColor" stroke-width="2" stroke-linecap="round" stroke-linejoin="round"><path d="M5 12h14M13 6l6 6-6 6"/></svg></span></div>
   <div class="peek"><h3>Quà công ty, phần thưởng cho trường học.</h3></div>
-  <div class="full" hidden><button class="close" aria-label="Đóng"><svg viewBox="0 0 24 24" fill="none" stroke="currentColor" stroke-width="2" stroke-linecap="round" stroke-linejoin="round"><path d="M6 6l12 12M18 6L6 18"/></svg></button><h2>Công ty, trường học chỉ cần gửi số lượng và ngân sách.</h2><p>Sugami lên phương án, gói quà, in thiệp theo thương hiệu và giao tận nơi. Quà cho nhân viên dịp Tết, Trung thu, sinh nhật công ty. Phần thưởng cuối năm học, quà sự kiện, lễ hội và ngày 1/6 cho trường học.</p><p style="margin-top:20px"><a class="btn-rose" href="https://zalo.me/0981151720" target="_blank" rel="noopener">Nhận báo giá qua Zalo</a></p><div class="next"><span>Xem tiếp</span><button class="jump" data-go="about">Chúng tôi là ai</button><button class="jump" data-go="mission">Sứ mệnh</button><button class="jump" data-go="products">Sản phẩm nổi bật</button><button class="jump" data-go="channels">Mua sắm</button><button class="jump" data-go="learn">Sugami Learn</button></div></div>
+  <div class="full" hidden><button class="close" aria-label="Đóng"><svg viewBox="0 0 24 24" fill="none" stroke="currentColor" stroke-width="2" stroke-linecap="round" stroke-linejoin="round"><path d="M6 6l12 12M18 6L6 18"/></svg></button><h2>Công ty, trường học chỉ cần gửi số lượng và ngân sách.</h2><p>SuGaMi lên phương án, gói quà, in thiệp theo thương hiệu và giao tận nơi. Quà cho nhân viên dịp Tết, Trung thu, sinh nhật công ty. Phần thưởng cuối năm học, quà sự kiện, lễ hội và ngày 1/6 cho trường học.</p><p style="margin-top:20px"><a class="btn-rose" href="https://zalo.me/0981151720" target="_blank" rel="noopener">Nhận báo giá qua Zalo</a></p><div class="next"><span>Xem tiếp</span><button class="jump" data-go="about">Chúng tôi là ai</button><button class="jump" data-go="mission">Sứ mệnh</button><button class="jump" data-go="products">Sản phẩm nổi bật</button><button class="jump" data-go="channels">Mua sắm</button><button class="jump" data-go="learn">SuGaMi Learn</button></div></div>
 </article>
 <article class="tile night t-learn" data-k="learn" style="view-transition-name:t-learn;--c:var(--sun);">
-  <button class="open" aria-label="Mở Sugami Learn"></button>
-  <div class="th"><span class="ic"><svg viewBox="0 0 24 24" fill="none" stroke="currentColor" stroke-width="2" stroke-linecap="round" stroke-linejoin="round"><path d="M12 3l2.5 5 5.5.8-4 3.9.9 5.5L12 15.6 7.1 18.2 8 12.7 4 8.8 9.5 8z"/></svg></span><span class="nm">Sugami Learn</span><span class="plus"><svg viewBox="0 0 24 24" fill="none" stroke="currentColor" stroke-width="2" stroke-linecap="round" stroke-linejoin="round"><path d="M5 12h14M13 6l6 6-6 6"/></svg></span></div>
+  <button class="open" aria-label="Mở SuGaMi Learn"></button>
+  <div class="th"><span class="ic"><svg viewBox="0 0 24 24" fill="none" stroke="currentColor" stroke-width="2" stroke-linecap="round" stroke-linejoin="round"><path d="M12 3l2.5 5 5.5.8-4 3.9.9 5.5L12 15.6 7.1 18.2 8 12.7 4 8.8 9.5 8z"/></svg></span><span class="nm">SuGaMi Learn</span><span class="plus"><svg viewBox="0 0 24 24" fill="none" stroke="currentColor" stroke-width="2" stroke-linecap="round" stroke-linejoin="round"><path d="M5 12h14M13 6l6 6-6 6"/></svg></span></div>
   <div class="peek"><h3 style="color:#fff">learn.sugami.vn</h3><p>Vừa chơi vừa học cho bé.</p></div>
-  <div class="full" hidden><button class="close" aria-label="Đóng"><svg viewBox="0 0 24 24" fill="none" stroke="currentColor" stroke-width="2" stroke-linecap="round" stroke-linejoin="round"><path d="M6 6l12 12M18 6L6 18"/></svg></button><h2 style="color:#fff">Vừa chơi vừa học, mỗi ngày.</h2><p>learn.sugami.vn là sân chơi trực tuyến nơi các bé vừa chơi vừa bổ sung kiến thức và học kỹ năng sống cùng Sugami. Mèo Mochi dẫn bé qua tập đọc, gõ phím, máy tính Casio, hóa học và lập trình, bám chương trình GDPT 2018. Bé đứng đầu bảng xếp hạng tuần còn nhận quà từ Sugami.</p><p style="margin-top:20px"><a class="btn-sun" href="https://learn.sugami.vn" target="_blank" rel="noopener">Vào learn.sugami.vn</a></p><div class="next"><span>Xem tiếp</span><button class="jump" data-go="about">Chúng tôi là ai</button><button class="jump" data-go="mission">Sứ mệnh</button><button class="jump" data-go="products">Sản phẩm nổi bật</button><button class="jump" data-go="channels">Mua sắm</button><button class="jump" data-go="b2b">Quà công ty &amp; trường</button></div></div>
+  <div class="full" hidden><button class="close" aria-label="Đóng"><svg viewBox="0 0 24 24" fill="none" stroke="currentColor" stroke-width="2" stroke-linecap="round" stroke-linejoin="round"><path d="M6 6l12 12M18 6L6 18"/></svg></button><h2 style="color:#fff">Vừa chơi vừa học, mỗi ngày.</h2><p>learn.sugami.vn là sân chơi trực tuyến nơi các bé vừa chơi vừa bổ sung kiến thức và học kỹ năng sống cùng SuGaMi. Mèo Mochi dẫn bé qua tập đọc, gõ phím, máy tính Casio, hóa học và lập trình, bám chương trình GDPT 2018. Bé đứng đầu bảng xếp hạng tuần còn nhận quà từ SuGaMi.</p><p style="margin-top:20px"><a class="btn-sun" href="https://learn.sugami.vn" target="_blank" rel="noopener">Vào learn.sugami.vn</a></p><div class="next"><span>Xem tiếp</span><button class="jump" data-go="about">Chúng tôi là ai</button><button class="jump" data-go="mission">Sứ mệnh</button><button class="jump" data-go="products">Sản phẩm nổi bật</button><button class="jump" data-go="channels">Mua sắm</button><button class="jump" data-go="b2b">Quà công ty &amp; trường</button></div></div>
 </article>
   </main>
   </div>
-  <footer class="site-foot"><span>© 2026 Công ty TNHH Thương mại và Dịch vụ Sugami</span><span>sugami.vn</span></footer>
+  <footer class="site-foot"><span>© 2026 Công ty TNHH Thương mại và Dịch vụ SuGaMi</span><span>sugami.vn</span></footer>
 </section>
 
 <script>
@@ -412,7 +412,7 @@
     base.setAttribute('d', d); done.setAttribute('d', d);
     len = done.getTotalLength(); done.style.strokeDasharray = len;
     stops.forEach(function (s) { s.remove(); }); stops = [];
-    ['Sugami', 'Chọn', 'Gói', 'Giao', 'Lớn lên'].forEach(function (name, i) {
+    ['SuGaMi', 'Chọn', 'Gói', 'Giao', 'Lớn lên'].forEach(function (name, i) {
       var s = document.createElement('div'); s.className = 'stop';
       s.innerHTML = '<i></i><span>' + name + '</span>';
       s.style.left = (i * innerWidth + innerWidth / 2) + 'px';

diff --git a/sites/sugami.vn/tools/render-scenes.html b/sites/sugami.vn/tools/render-scenes.html
@@ -64,9 +64,9 @@ if (S === 'A') { // gifts
   confetti(16, 3.4, [C.rose, C.teal, C.sun, C.lav]);
   cam.position.set(5.6, 5.4, 8.2); cam.lookAt(0, .75, .9);
 }
-if (S === 'B') { // toy blocks spelling SUGAMI + car
+if (S === 'B') { // toy blocks spelling SuGaMi + car
   const cols = [C.rose, C.teal, C.sun, C.lav, C.coral, C.teal];
-  'SUGAMI'.split('').forEach((ch, i) => block(ch, cols[i], (i - 2.5) * 1.12, .5, i % 2 ? .25 : -.15, (i - 2.5) * -.06));
+  'SuGaMi'.split('').forEach((ch, i) => block(ch, cols[i], (i - 2.5) * 1.12, .5, i % 2 ? .25 : -.15, (i - 2.5) * -.06));
   block('★', C.blush, -.55, 1.5, .05, .12); block('♥', C.tealSoft, .6, 1.5, 0, -.1);
   const car = new THREE.Group(); car.position.set(2.2, 0, 2.3); car.rotation.y = -.7; scene.add(car);
   const body = new THREE.Mesh(new RoundedBoxGeometry(1.5, .5, .85, 5, .18), mat(C.rose)); body.position.y = .45; body.castShadow = true; car.add(body);
@@ -76,26 +76,39 @@ if (S === 'B') { // toy blocks spelling SUGAMI + car
   const ring = mesh(new THREE.TorusGeometry(.35, .13, 24, 48), mat(C.lav), -1.4, .13, 2.6); ring.rotation.x = Math.PI / 2;
   cam.position.set(3.2, 5.2, 12.5); cam.lookAt(.1, .6, .9);
 }
-if (S === 'C') { // office desk
-  const nb = rbox(3.0, .22, 2.1, C.teal, -.5, .11, 0, .06); nb.rotation.y = .25;
-  const pcv = document.createElement('canvas'); pcv.width = 1024; pcv.height = 720; const pgc = pcv.getContext('2d');
-  pgc.fillStyle = '#fffaf2'; pgc.fillRect(0, 0, 1024, 720); pgc.strokeStyle = '#bfe3e5'; pgc.lineWidth = 4;
-  for (let y = 120; y < 700; y += 60) { pgc.beginPath(); pgc.moveTo(60, y); pgc.lineTo(980, y); pgc.stroke(); }
-  pgc.strokeStyle = '#f4a3b5'; pgc.beginPath(); pgc.moveTo(140, 0); pgc.lineTo(140, 720); pgc.stroke();
-  pgc.fillStyle = '#d9466c'; pgc.font = '700 54px Arial'; pgc.fillText('Quà Tết 2027', 180, 100);
-  pgc.fillStyle = '#4a4150'; pgc.font = '500 38px Arial'; ['✓ 120 hộp quà nhân viên', '✓ Thiệp in logo công ty', '✓ Giao trước 20/1'].forEach((t, i) => pgc.fillText(t, 180, 222 + i * 120));
-  const ptex = new THREE.CanvasTexture(pcv); ptex.colorSpace = THREE.SRGBColorSpace;
-  const pg = rbox(2.8, .06, 1.95, C.white, -.42, .25, .02, .02, { map: ptex, clearcoat: .1, roughness: .7 }); pg.rotation.y = .25;
-  const cup = mesh(new THREE.CylinderGeometry(.55, .5, 1.4, 48, 1, true), mat(C.rose, { side: THREE.DoubleSide }), 1.9, .7, -.6);
-  mesh(new THREE.CylinderGeometry(.5, .5, .05, 48), mat(C.rose), 1.9, .03, -.6);
-  [[C.sun, .1, .0], [C.lav, -.18, .15], [C.teal, .15, -.2], [C.coral, -.05, -.15]].forEach(([c, dx, dz], i) => {
-    const pen = mesh(new THREE.CylinderGeometry(.07, .07, 2.0, 6), mat(c), 1.9 + dx, 1.3, -.6 + dz); pen.rotation.z = dx * 1.2; pen.rotation.x = dz * 1.2;
-  });
-  [[C.sun, 2.0, 1.4, .3], [C.blush, 2.35, 1.1, -.2], [C.tealSoft, 1.55, 1.8, .6]].forEach(([c, x, z, ry], i) => { const n = rbox(.9, .04 + i * .04, .9, c, x, .02 + i * .04, z, .015); n.rotation.y = ry; });
-  const pencil = mesh(new THREE.CylinderGeometry(.08, .08, 2.2, 6), mat(C.sun), -.3, .35, 1.6); pencil.rotation.z = Math.PI / 2; pencil.rotation.y = .3;
-  const clip = mesh(new THREE.TorusGeometry(.2, .035, 12, 40), mat(0xd0d0d8, { metalness: .9, roughness: .2 }), -2.3, .04, 1.4); clip.rotation.x = Math.PI / 2; clip.scale.set(1, 1.8, 1);
-  gift(.9, .7, .9, C.white, C.rose, -2.4, -1.2, .4);
-  cam.position.set(4.2, 6.2, 6.6); cam.lookAt(0, .4, .2);
+if (S === 'C') { // company gifts and school rewards
+  // stack of branded hampers
+  gift(1.9, 1.1, 1.9, C.teal, C.sun, -1.6, -.6, .35, false);
+  gift(1.5, .95, 1.5, C.white, C.rose, -1.6 + .05, -.6, .55, false).position.y = 1.1;
+  gift(1.0, .8, 1.0, C.rose, C.white, -1.55, -.6, .2).position.y = 2.05;
+  gift(1.3, 1.0, 1.3, C.lav, C.white, .3, -1.5, -.3);
+  // standing thank-you card with brand
+  const cv = document.createElement('canvas'); cv.width = 800; cv.height = 1000; const g = cv.getContext('2d');
+  g.fillStyle = '#fffaf4'; g.fillRect(0, 0, 800, 1000);
+  g.fillStyle = '#f16185'; g.fillRect(0, 0, 800, 22); g.fillStyle = '#57c9c9'; g.fillRect(0, 978, 800, 22);
+  g.textAlign = 'center';
+  const brand = [['S', '#f16185'], ['u', '#57c9c9'], ['G', '#e0c93a'], ['a', '#f16185'], ['M', '#57c9c9'], ['i', '#b7a0ee']];
+  g.font = '900 120px Arial Black, Arial'; let bx = 400 - 200; brand.forEach(([ch, c]) => { g.fillStyle = c; const w = g.measureText(ch).width; g.fillText(ch, bx + w / 2, 230); bx += w; });
+  g.fillStyle = '#2a1d30'; g.font = '800 70px Arial'; g.fillText('Cảm ơn', 400, 470); g.fillText('đội ngũ!', 400, 560);
+  g.fillStyle = '#7a6d80'; g.font = '500 42px Arial'; g.fillText('Quà Tết 2027', 400, 720); g.fillText('120 phần quà nhân viên', 400, 790);
+  const tex = new THREE.CanvasTexture(cv); tex.colorSpace = THREE.SRGBColorSpace;
+  const card = rbox(1.6, 2.0, .05, C.white, 1.1, 1.02, .9, .02, { map: tex, roughness: .7 }); card.rotation.set(-.12, -.35, 0);
+  // gold medal on ribbon (school reward)
+  const gold = mat(0xf7cf4a, { metalness: .35, roughness: .3, clearcoat: .6 });
+  const med = mesh(new THREE.CylinderGeometry(.5, .5, .1, 48), gold, 1.2, .05, 2.5);
+  const st = new THREE.Shape(); for (let k = 0; k < 10; k++) { const ang = k / 10 * Math.PI * 2 - Math.PI / 2, rr = k % 2 ? .13 : .3; k ? st.lineTo(Math.cos(ang) * rr, Math.sin(ang) * rr) : st.moveTo(Math.cos(ang) * rr, Math.sin(ang) * rr); }
+  const star = mesh(new THREE.ExtrudeGeometry(st, { depth: .04, bevelEnabled: false }), mat(C.rose), 1.2, .11, 2.5); star.rotation.x = -Math.PI / 2;
+  const rb1 = rbox(.32, .02, 1.3, C.teal, 1.02, .02, 1.55, .01); rb1.rotation.y = .35;
+  const rb2 = rbox(.32, .02, 1.3, C.rose, 1.4, .02, 1.55, .01); rb2.rotation.y = -.35;
+  // small trophy
+  const tg = new THREE.Group(); tg.position.set(2.1, 0, -1.9); scene.add(tg);
+  const addT = (geo, m, y) => { const o = new THREE.Mesh(geo, m); o.position.y = y; o.castShadow = true; tg.add(o); return o; };
+  addT(new RoundedBoxGeometry(.9, .3, .9, 4, .05), mat(C.ink, { roughness: .5 }), .15);
+  addT(new THREE.CylinderGeometry(.08, .12, .5, 24), gold, .55);
+  addT(new THREE.CylinderGeometry(.48, .18, .8, 48), gold, 1.2);
+  [-1, 1].forEach(sx => { const h = addT(new THREE.TorusGeometry(.2, .05, 12, 32), gold, 1.3); h.position.x = sx * .5; h.rotation.y = Math.PI / 2; });
+  confetti(14, 3.6, [C.rose, C.teal, C.sun, C.lav]);
+  cam.position.set(5.6, 6.4, 9.6); cam.lookAt(.5, .9, .5);
 }
 if (S === 'D') { // tablet with learning game
   const cv = document.createElement('canvas'); cv.width = 1024; cv.height = 720; const g = cv.getContext('2d');

diff --git a/docs/ops/trang-chu.md b/docs/ops/trang-chu.md
@@ -1,0 +1,30 @@
+# Trang chủ sugami.vn
+
+Trang giới thiệu tĩnh nằm ở `sites/sugami.vn/`. Trên iMac, dịch vụ `homepage` trong `docker-compose.yml` (nginx) phục vụ thư mục này ở `http://localhost:8080`, Cloudflare Tunnel đưa ra internet.
+
+## Bật lần đầu (chủ shop làm)
+
+1. Trên iMac, cập nhật code rồi bật dịch vụ:
+   ```bash
+   cd ~/sugami_erp && git pull
+   docker compose up -d homepage
+   ```
+   Mở `http://localhost:8080` trên iMac để chắc trang đã chạy.
+2. Vào Cloudflare: **Zero Trust → Networks → Tunnels**, chọn tunnel đang dùng cho `erp.sugami.vn` → **Public Hostname → Add a public hostname**:
+   - Subdomain để trống, Domain `sugami.vn`, Service `HTTP` · `localhost:8080`.
+   - Thêm một dòng nữa: Subdomain `www`, Domain `sugami.vn`, Service `HTTP` · `localhost:8080`.
+3. Nếu Cloudflare báo đã có bản ghi DNS `sugami.vn` hoặc `www` (A/CNAME cũ trỏ về hosting khác), vào **DNS → Records** xóa bản ghi cũ đó rồi lưu lại hostname ở bước 2. Đừng đụng bản ghi MX/TXT của email.
+4. Mở `https://sugami.vn` từ điện thoại (tắt wifi) để kiểm tra.
+
+Nếu tunnel chạy bằng file `config.yml` thay vì dashboard, thêm vào `ingress` (trước dòng `http_status:404`):
+```yaml
+  - hostname: sugami.vn
+    service: http://localhost:8080
+  - hostname: www.sugami.vn
+    service: http://localhost:8080
+```
+rồi `sudo launchctl kickstart -k system/com.cloudflare.cloudflared` (hoặc khởi động lại cloudflared).
+
+## Cập nhật nội dung
+
+Chỉ cần `git pull` (hoặc `bash scripts/update.sh`), nginx đọc thẳng thư mục nên không cần khởi động lại. Thư mục `concepts/`, `tools/` và `README.md` không công khai.

diff --git a/docs/ops/chay-that.md b/docs/ops/chay-that.md
@@ -59,5 +59,5 @@ Script tự làm: `git pull`, cài gói, build, chạy migration DB, nạp lại
 
 - Web báo lỗi gọi API: `pm2 logs sugami-api`, thường do `.env` thiếu hoặc MySQL/Redis chưa chạy (`brew services list`).
 - Đổi `.env`: `pm2 restart all --update-env`.
-- Địa chỉ ngoài (`erp.sugami.vn`, `hooks.sugami.vn`) do Cloudflare Tunnel trỏ về cổng 3000 (web) và 4000 (API, webhook).
+- Địa chỉ ngoài (`erp.sugami.vn`, `hooks.sugami.vn`) do Cloudflare Tunnel trỏ về cổng 3000 (web) và 4000 (API, webhook); `sugami.vn` trỏ về cổng 8080 (trang chủ, xem [trang-chu.md](trang-chu.md)).
 - Muốn thử code mới mà không ảnh hưởng bản đang chạy: dùng `pnpm dev` trên cổng khác, hoặc `pm2 stop all` trước rồi mới `pnpm dev`.
